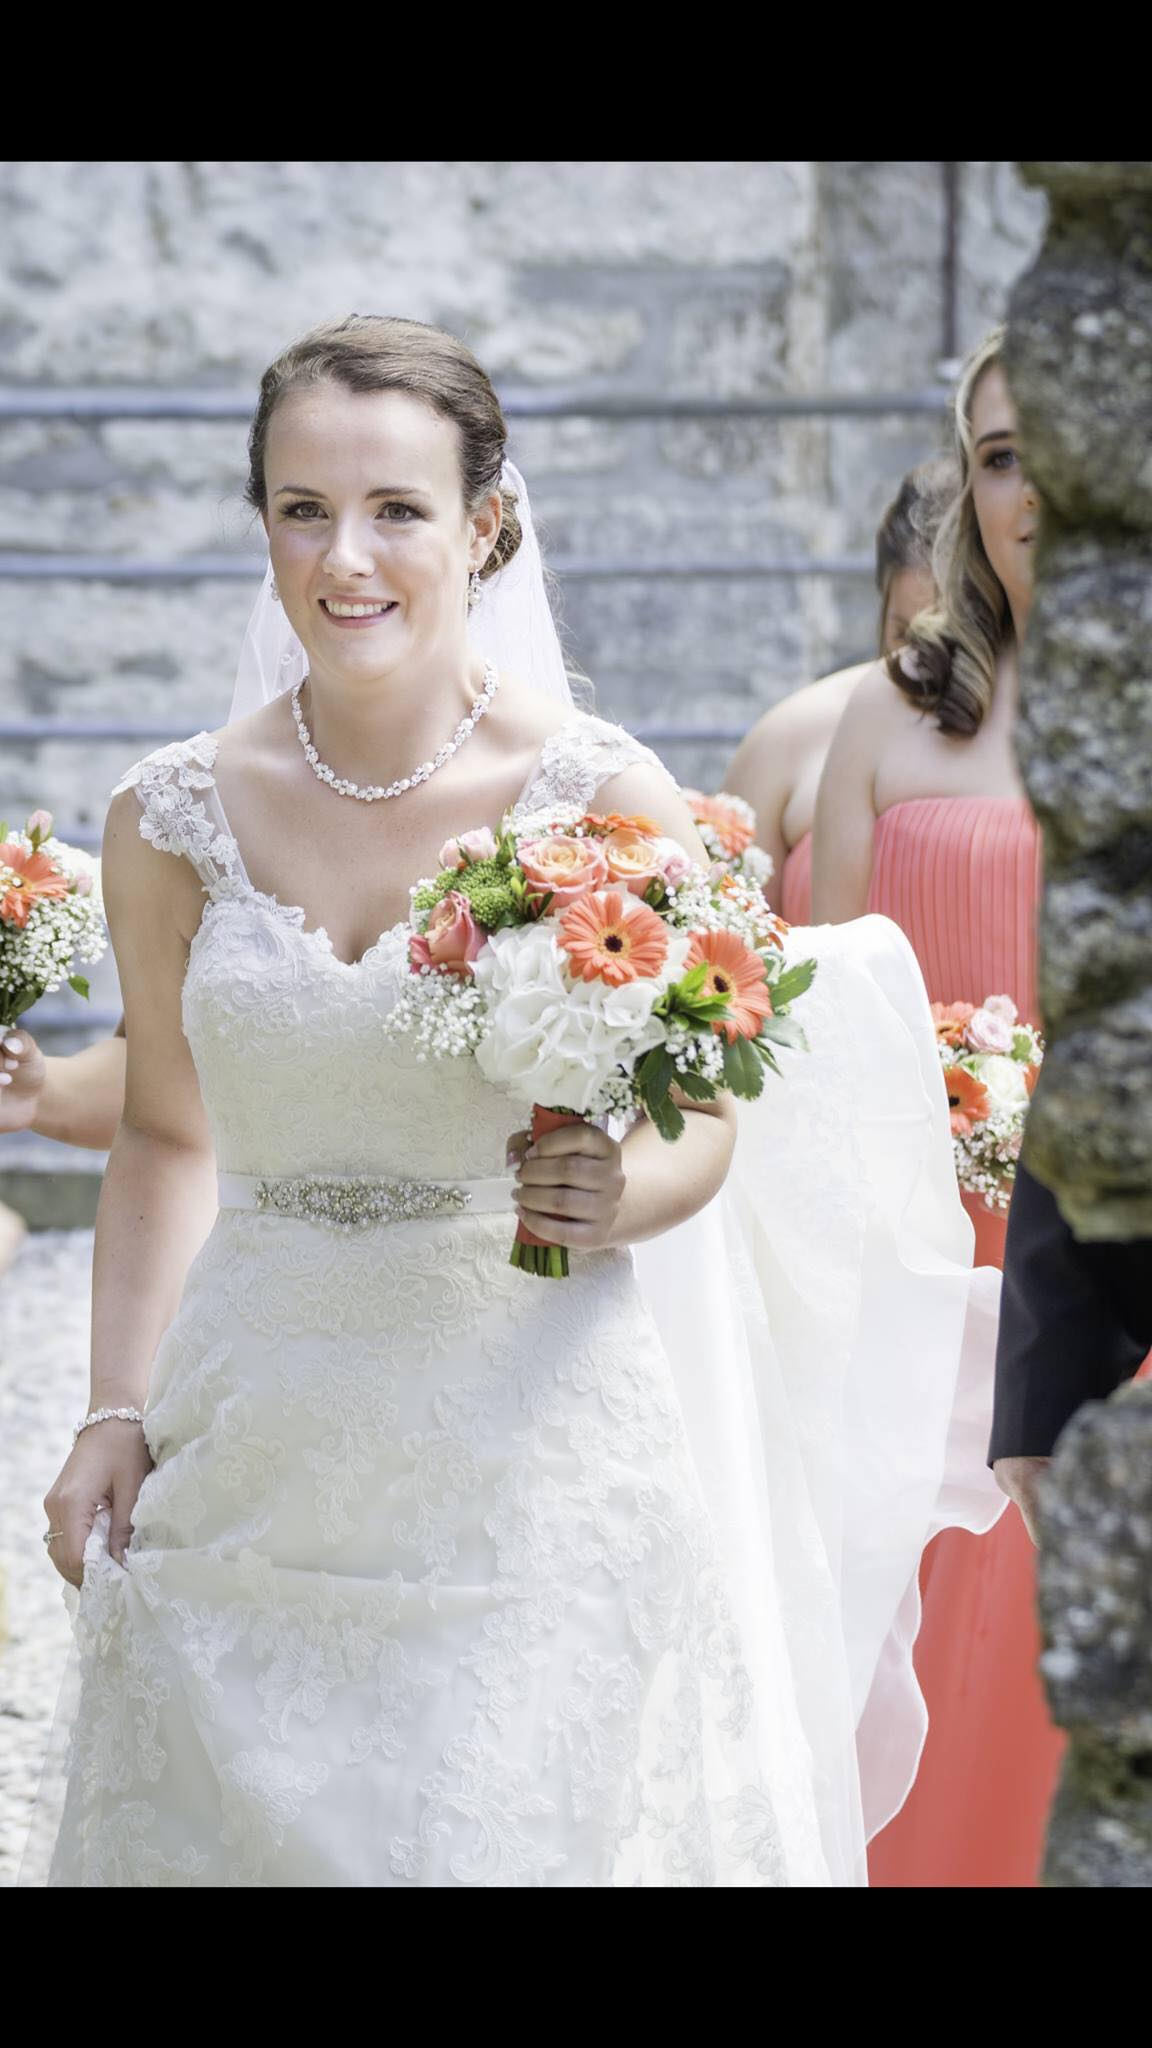
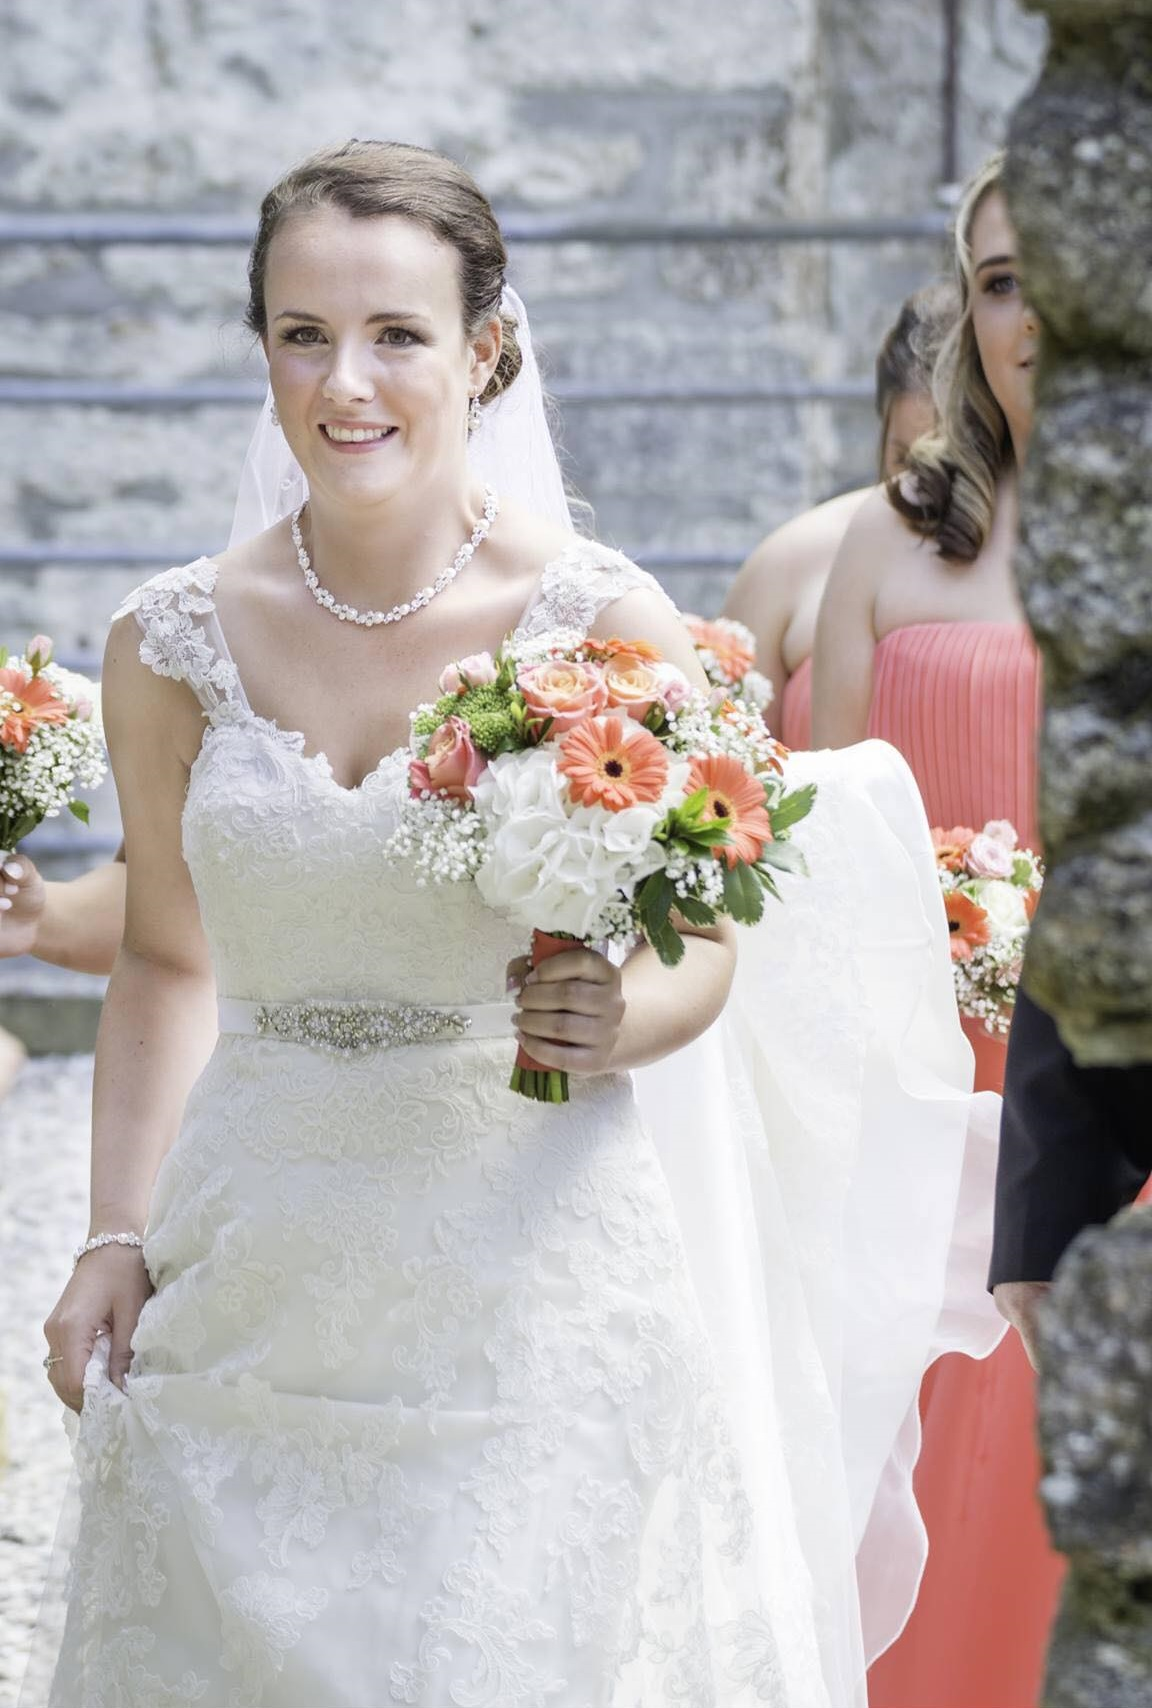
Updated gallery & weddings
Updated the content of the weddings page & edited some pictures in the gallery

diff --git a/webpages/index.html b/webpages/index.html
@@ -3,6 +3,7 @@
     <link rel="stylesheet" type="text/css" href="stylesheet.css">
     <link href="https://fonts.googleapis.com/css2?family=Josefin+Slab:wght@600&display=swap" rel="stylesheet">
     <link rel="stylesheet" href="https://cdnjs.cloudflare.com/ajax/libs/font-awesome/4.7.0/css/font-awesome.min.css">
+    <link href="https://fonts.googleapis.com/css2?family=Josefin+Slab:wght@700&display=swap" rel="stylesheet">
     <script type="text/javascript" src="https://ajax.googleapis.com/ajax/libs/jquery/3.5.1/jquery.min.js"></script>
     <script type="text/javascript" src="script.js"></script>
     <title>Belladonna</title>
@@ -64,6 +65,7 @@
                 elit erat euismod orci, ac placerat dolor lectus quis orci. Phasellus consectetuer vestibulum elit. Aenean tellus metus, bibendum sed, posuere ac, mattis non, nunc. Vestibulum fringilla pede sit amet 
                 augue. In turpis. Pellentesque posuere. Praesent turpis. Aenean posuere, tortor sed cursus feugiat, nunc augue blandit nunc, eu sollicitudin urna dolor sagittis lacus.
             </p>
+            <h1>Contact</h1>
             <p class="mainText">If you would like to contact Belladonna, you can either email belladonncornwall@hotmail.com or visit our Facebook page, you can follow us on instagram too!  </p>
             <a href="https://www.facebook.com/belladonnacornwall/" class="fa fa-facebook"></a>
             <a href="https://www.instagram.com/belladonnalife_/" class="fa fa-instagram"></a>

diff --git a/webpages/stylesheet.css b/webpages/stylesheet.css
@@ -1,8 +1,11 @@
 .navBar{
 	display: block;
-	position: fixed;
 	top: 0;
 	width: 100%;
+}
+
+h1{
+	font-size: 50px;
 }
 
 .currentImage{
@@ -15,7 +18,8 @@ ul{
 	padding:0;
 	overflow: hidden;
 	background-color: rgb(127, 131, 134);
-	border-bottom: solid white 2px;;
+	border-bottom: solid white 2px;
+	font-size: bold;
 }
 
 li{
@@ -133,12 +137,28 @@ body{
 	width: 60%;
 }
 
+
+/* styling for facebook plugin */
  iframe{
 	 margin-top: 20px;
 	 margin-right: 20px;
 	 margin-bottom: 20px;
 	 float: right;
 	 display: inline-block;
+ }
+
+ .centeredHeading{
+
+ }
+
+ .bodyContent{
+	font-family: 'Josefin Slab', serif;
+	margin-left: 10%;
+	margin-right: 10%;
+	margin-top: 200px;
+	color: black;
+	display: inline-block;
+	font-size: 20px;
  }
 
  .mainText{
@@ -165,7 +185,7 @@ body{
   	color: white;
   }
 
-/* .fade {
+  .fade {
 	-webkit-animation-name: fade;
 	-webkit-animation-duration: 1.5s;
 	animation-name: fade;
@@ -173,11 +193,11 @@ body{
   }
   
   @-webkit-keyframes fade {
-	from {opacity: 1}
+	from {opacity: 0.1}
 	to {opacity: 1}
   }
   
   @keyframes fade {
-	from {opacity: 1}
+	from {opacity: 0.1}
 	to {opacity: 1}
-  } */
+  } 

diff --git a/webpages/weddings.html b/webpages/weddings.html
@@ -23,5 +23,11 @@
             <li><a href="index.html#contact">Contact</a></li>
         </ul>
     </div>
+    <div class="bodyContent">
+        <h1 class="centeredHeading">Weddings</h1>
+        <p>At Belladonna, we understand the magic of planning your dream wedding. With 8 years experience and limitless passion for flowers, we love turning your dreams into a reality. 
+            Whether you’re looking for something simple and sophisticated, wild and natural, or something completely off the wall, at Belladonna we will always put your needs first and strive to complete your perfect day.
+            We use only the highest quality Dutch and local flowers and foliages, as well as the best quality ribbons, glassware and accessories. We then combine this with your ideas and any images that inspire you, to create a wedding collection completely unique to you, at a price to suit your budget. 
+            To book a free wedding consultation, please contact us via the details below.</p>
 </body>
 </html>

diff --git a/webpages/gallery.html b/webpages/gallery.html
@@ -56,7 +56,6 @@
             <img src="D:\Websites\Belladonna\Website\Belladonna\images\wedding (28).jpg" class="galleryPhoto">
             <img src="D:\Websites\Belladonna\Website\Belladonna\images\wedding (29).jpg" class="galleryPhoto">
             <img src="D:\Websites\Belladonna\Website\Belladonna\images\wedding (30).jpg" class="galleryPhoto">
-            <img src="D:\Websites\Belladonna\Website\Belladonna\images\wedding (31).jpg" class="galleryPhoto">
             <img src="D:\Websites\Belladonna\Website\Belladonna\images\wedding (32).jpg" class="galleryPhoto">
             <img src="D:\Websites\Belladonna\Website\Belladonna\images\wedding (33).jpg" class="galleryPhoto">
             <img src="D:\Websites\Belladonna\Website\Belladonna\images\wedding (34).jpg" class="galleryPhoto">
